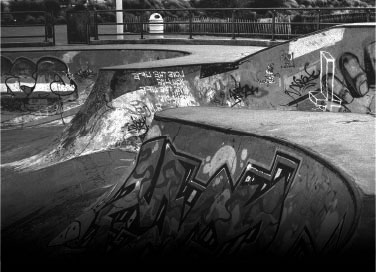
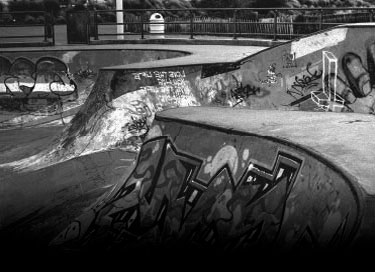
ajustement des img de fond

diff --git a/index.html b/index.html
@@ -12,7 +12,7 @@
   <body>
     <header>
       <div class="container container-header">
-        <h1><img class="logo logo-big" src="img/logo-sjf.svg" alt="Logo du Street Jam Festival"></h1>
+        <h1><img  id="top" class="logo logo-big" src="img/logo-sjf.svg" alt="Logo du Street Jam Festival"></h1>
         <p>FR | DE</p>
         <div class="button button-festival">
           <a href="#festival"><img src="" alt="Festival"></a>
@@ -50,8 +50,8 @@
         <img src="" alt="Avec 8DeadRats et Manos68">
         <img src="" alt="Bombes de peintures">
       </div>
-      <div class="container container-horaire">
-        <p>
+      <div class="container container-schedule">
+        <p class="hours">
           09h00-11h00:<br/>
           10h00-12h00:<br/>
           <br/>
@@ -89,8 +89,8 @@
         <img src="" alt="Spectacle, concours et +">
         <img src="" alt="Skater">
       </div>
-      <div class="container container-horaire">
-        <p>
+      <div class="container container-schedule">
+        <p class="hours">
           09h00-10h00:<br/>
           <br/>
           10h00-10h30:<br/>
@@ -139,13 +139,13 @@
         seront informés des horaires définitifs lors de leur inscription à 
         l'événement.
       </p>
-      <div class="container container-musique">
-        <h2 class="title title-musique">musique</h2>
+      <div class="container container-music">
+        <h2 class="title title-music">musique</h2>
         <img src="" alt="8 artistes hip-hop">
         <img src="" alt="Chanteur">
       </div>
-      <div class="container container-horaire">
-        <p>
+      <div class="container container-schedule">
+        <p class="hours">
           15h00-17h00:<br/>
           <br/>
           <br/>
@@ -153,13 +153,13 @@
           17h00-23h00:<br/>
           <br/>
           <br/>
-          00h00:<br/>
+          00h00:
         </p>
         <p>
           Atelier de musique urbaine pour les amateurs de beatmaking et de 
           rap.<br/>
           Concert de hip-hop avec des artistes locaux et nationaux.<br/>
-          Fin de la journée.<br/>
+          Fin de la journée.
         </p>
       </div>
       <div class="container container-food">
@@ -206,9 +206,11 @@
         1800 Vevey<br/>
         <br/>
         Nous sommes à votre disposition :<br/>
-        info@streetjamfestival.ch
+        <a href="mailto:info@streetjamfestival.ch">info@streetjamfestival.ch</a>
       </p>
-      <img class="logo logo-small" src="img/logo-sjf.svg" alt="Logo du Street Jam Festival">
+      <a href="#top">
+        <img class="logo logo-small" src="img/logo-sjf.svg" alt="Logo du Street Jam Festival">
+      </a>
     </footer>
   </body>
 </html>

diff --git a/css/styles.css b/css/styles.css
@@ -46,7 +46,6 @@ header p {
 }
 
 .container-header .logo-big {
-  align-self: flex-start;
   max-width: 216px;
 }
 
@@ -76,6 +75,45 @@ h2 {
   margin: 0;
 }
 
+.container-art {
+  background-image: url(../img/bg-tags.jpg);
+  height: 262px;
+}
+
+.container-skateboard {
+  background-image: url(../img/bg-skatepark.jpg);
+  height: 261px;
+}
+
+.container-music {
+  background-image: url(../img/bg-scene.jpg);
+  height: 261px;
+}
+
+.container-food {
+  background-image: url(../img/bg-food.jpg);
+  height: 261px;
+}
+
+.container-schedule p {
+
+}
+
+.container-schedule .hours {
+  font-weight: 700;
+}
+
+a {
+  color: #fff;
+  text-decoration: solid underline #fff 1px;
+}
+
 footer {
   background: #000;
+}
+
+footer .logo-small {
+  max-width: 148px;
+  margin: auto;
+  padding: 40px 0;
 }
